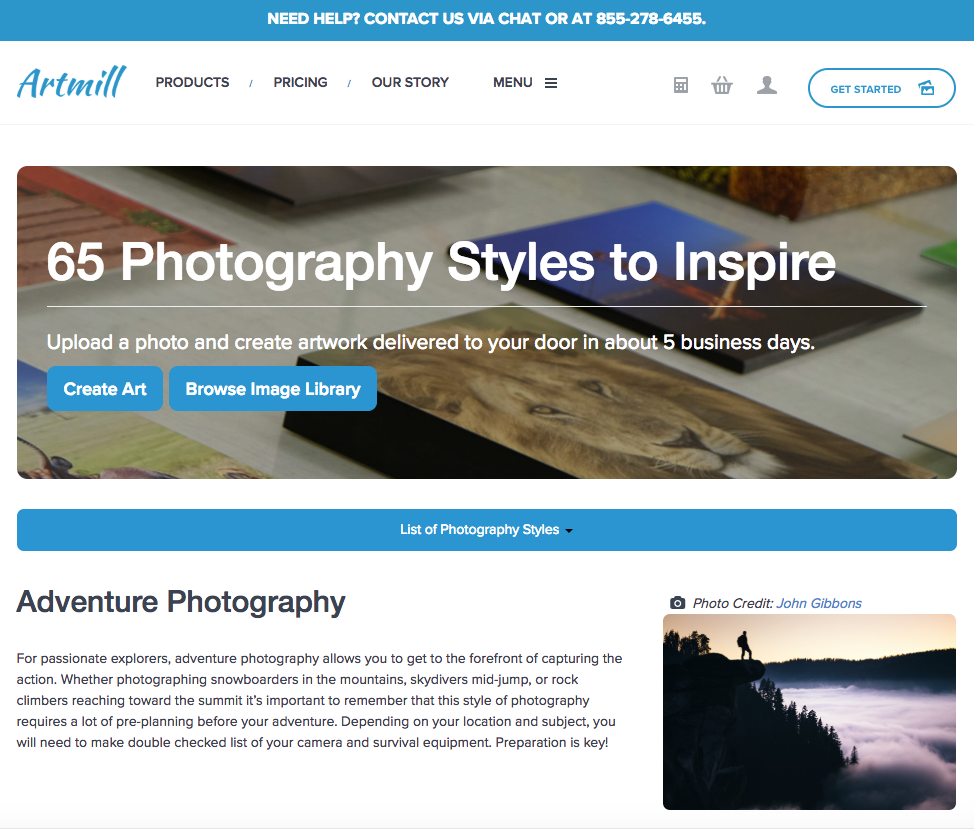
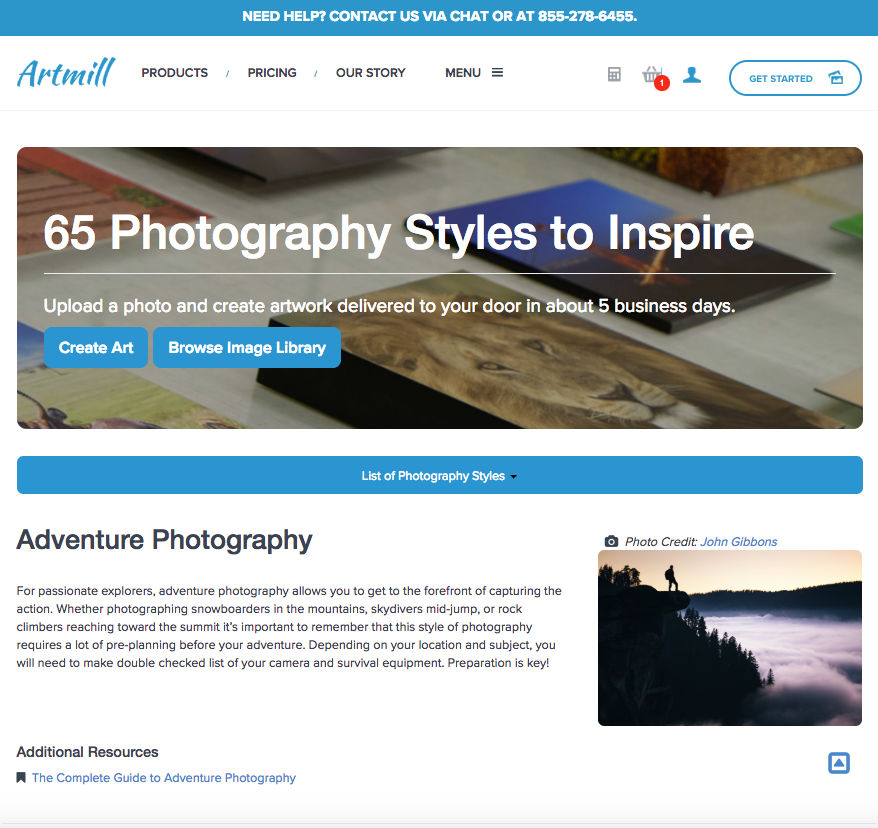
add another screenshot

diff --git a/readme.md b/readme.md
@@ -14,3 +14,6 @@
 
 **Screenshots**
 ![65 Photography Styles](screenshots/screenshot1.png)
+![65 Photography Styles Continued](screenshots/screenshot2.png)
+
+Browse the full list [65 Photography Styles to Inspire](https://www.artmill.com/articles/65-types-of-photography/).
